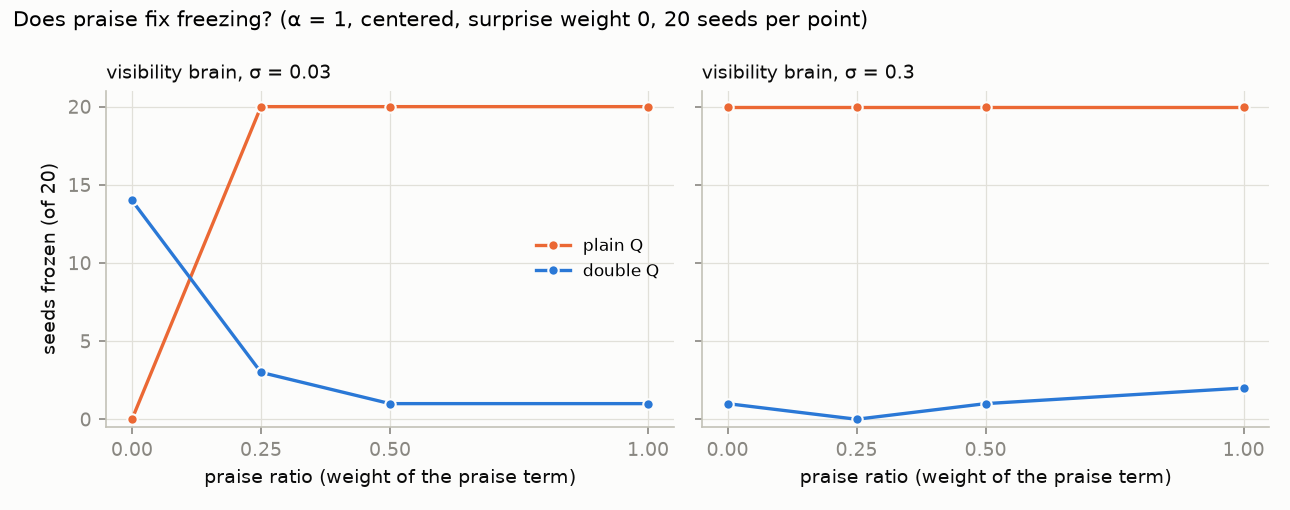
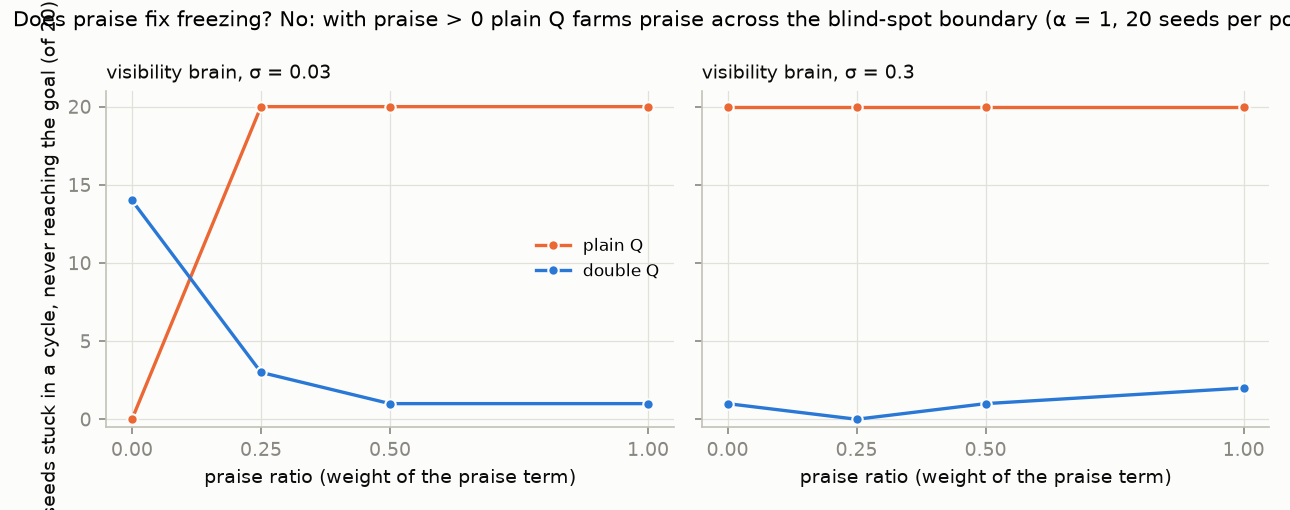
Phase 2: praise channel with surprise confound; praise farming across the blind-spot boundary

diff --git a/experiments/part2.py b/experiments/part2.py
@@ -68,8 +68,9 @@ def praise_a() -> pd.DataFrame:
             ax.plot(g.praise_ratio, g.k_frozen, color=col, marker="o", ms=5, lw=1.6, label=f"{v} Q", markeredgecolor=SURFACE)
         ax.set_title(f"visibility brain, σ = {sig:g}", loc="left", fontsize=9)
         ax.set_xlabel("praise ratio (weight of the praise term)"); ax.set_xticks([0, 0.25, 0.5, 1.0]); ax.set_ylim(-0.5, 21)
-    axes[0, 0].set_ylabel("seeds frozen (of 20)"); axes[0, 0].legend(fontsize=8)
-    fig.suptitle("Does praise fix freezing? (α = 1, centered, surprise weight 0, 20 seeds per point)", x=0.01, ha="left", fontsize=10)
+    axes[0, 0].set_ylabel("seeds stuck in a cycle, never reaching the goal (of 20)"); axes[0, 0].legend(fontsize=8)
+    fig.suptitle("Does praise fix freezing? No: with praise > 0 plain Q farms praise across the blind-spot boundary (α = 1, 20 seeds per point)",
+                 x=0.01, ha="left", fontsize=10)
     fig.tight_layout(); fig.savefig(FIGURES / "part2_praise_vs_freeze.png", dpi=150); plt.close(fig)
     return s
 

diff --git a/PAPER_NOTES.md b/PAPER_NOTES.md
@@ -1,0 +1,69 @@
+# Paper notes: "How reinforcement learning from neural feedback fails: blind spots, praise hacking, and attention manipulation"
+
+Every claim lists exact numbers, seed counts, the figure that shows it, caveats, and the
+fix (if any). "Frozen" = eval stuckness > 0.3 (share of an episode spent repeating one
+(cell, action) error; a random walk in the maze scores ≈ 0.07). All runs use the centered
+neural reward, α = 1 unless stated, and the 15x15 mirror maze (equal 28-step routes,
+hazards only on the hidden top route) unless stated. Defaults and placeholders are in
+`rlnf/config.py`; results tables in `results/summary_*.csv`; figures in `figures/`.
+
+---
+
+## Part 1: blind spots (the observer does not see part of the state)
+
+### Claim 1.1 — A visibility blind spot makes a tabular Q-learner retreat into the unobserved region and freeze there, at every realistic decoder accuracy.
+- **Numbers.** Visibility brain, plain Q, 20 seeds per point: frozen 0/20 at 100% decoder balanced accuracy (σ = 0.03), 3/20 at 99.9% (σ = 0.1), 20/20 at 96% (σ = 0.2), 19/20 at 90% (σ = 0.3), 20/20 at 78% (σ = 0.5), 20/20 at 66% (σ = 0.8); identical at α = 0.25, 1, 4. Honest brain: 0/20 down to 78%, 1-2/20 at 66%. True return of a frozen agent ≈ -0.91 to -1.0 vs 0.72 for the safe route.
+- **Figure.** `figures/part1_real_noise_cliff.png` (left panel); `results/noise_dose_response.png`.
+- **Caveats.** The cliff sits at a decoder far better than any real one (between 99.9% and 96%), so "realistic accuracy" is entirely on the frozen side; the effect is a step, not a dose-response. The step cost is absorbed by the neutral Q-init (-1.0), so nothing but the neural term pulls the agent anywhere (see "Do not claim").
+- **Fix.** Double Q-learning (Claim 1.4); observability-aware imputed reward (Claim 1.6).
+
+### Claim 1.2 — The mechanism is maximisation bias on zero-mean decoder noise in a region without penalties, not Vivanti's Boring Areas Trap.
+- **Numbers.** Reward variance per region during the first 20% of training (10 seeds): hidden/visible variance ratio falls from 2·10⁹ (σ = 0.03, 0/10 frozen) to 19.5 (σ = 0.2, 10/10 frozen) to 1.8 (σ = 0.8, 10/10): freezing starts when the quiet region *gains* noise, and the hidden half has the *higher* mean reward during exploration (-0.01 vs -0.6 to -0.13). Fixes sort by estimation bias at σ = 0.3 (20 seeds): plain 19/20 frozen, Double Q 0/20, Maxmin N = 2/4/8: 4/12/11, ASRN 20/20. Value iteration on the agent's exact expected reward: freezing is worth 1-80 units less than the safe route at α ≤ 1 (a trap), but at α = 4 a ≈ +0.005 sampling error in the centered baseline makes "never terminate" the optimum in 5/20 decoder seeds. More exploration makes freezing worse (ε → 0.3 over 90%: 20/20 at every learning rate; ε → 0.01 over 25%: 10-14/20).
+- **Figure.** `results/variance_by_region.png`, `results/fixes.png` (= `figures/part1_fixes_comparison.png`), `results/exploration_regions.png`.
+- **Caveats.** Maxmin's monotone worsening with N is consistent with the bias story (pessimism applies to both halves, but the visible half's sampled mean is already negative while exploring, so pessimism widens the gap) but we have not isolated it further. ASRN was implemented from the paper's prose (bins by update magnitude, 10 bins, 10k warm-up) and other choices could behave differently.
+
+### Claim 1.3 — PPO freezes too, but through advantages, not value bias.
+- **Numbers.** Our PyTorch PPO with reward normalisation, 10 seeds: visibility brain frozen 9/10 (σ = 0.03) and 10/10 (σ = 0.3); SB3 PPO (v2) 10/10 at α = 1 and 4. Critic diagnosis at the end of training: hidden-half V ≈ -0.4 vs Monte-Carlo return ≈ -0.5 (unbiased); visible-half V ≈ -0.5 vs Monte-Carlo -27 to -40 (the policy no longer visits it). Mean GAE advantage in the first 20% of training: hidden half ≈ 0.00, visible half -0.25 to -0.29. GAE λ = 0.8: 10/10 frozen at both σ; 3-critic ensemble: 7/10 (σ = 0.03) and 10/10 (σ = 0.3). Honest brain with this PPO reaches the goal 8/10 (default), 9-10/10 (ensemble), 6/10 (λ = 0.8).
+- **Figure.** `figures/part1_ppo_critic.png`, `figures/part1_learners.png`.
+- **Caveats.** Our PPO is weaker than SB3's on the honest brain (8/10 vs 9-10/10), so part of any PPO failure is exploration. "Advantage-driven" is an interpretation of the logged statistics, not a causal intervention; we did not find a critic-side fix.
+
+### Claim 1.4 — Double Q-learning removes the freeze; Double DQN only halves it.
+- **Numbers.** Tabular Double Q, visibility brain: 0/20 frozen at σ = 0.1 and 0.3, 1/20 at 0.5, true return 0.72; honest brain 0/20 frozen at every σ. DQN (10 seeds): 9/10 (σ = 0.03) and 10/10 (σ = 0.3) frozen; Double DQN: 5/10 and 5/10, late-training goal rate 0.5-0.6; honest brain 10/10 fine for both.
+- **Figure.** `figures/part1_learners.png`, `figures/part1_fixes_comparison.png`.
+- **Caveats.** Anomaly: tabular Double Q at σ = 0.03 (near-deterministic reward) failed to reach the goal in 14-16/20 seeds in two separate experiments (observability baseline, praise ratio 0), although it is 0/20 at σ = 0.1-0.3 and 2/20 with real noise; unexplained (ties between the two tables when the hidden-half reward is exactly the step cost is the guess). Double DQN shares one network and a periodically copied target, which is not two independent estimators.
+
+### Claim 1.5 — The cliff holds with real ErrP decoder noise.
+- **Numbers.** BNCI Horizon 2020 dataset 013-2015 (Chavarriaga & Millán 2010; 6 subjects, 2 sessions, 64-ch EEG, CC BY-NC-ND 4.0). Held-out (session 2, recorded 50-643 days later) balanced accuracy of our decoder: 80 / 73 / 81 / 58 / 63 / 53% for subjects 1-6 (AUC 0.92-0.71). One subject per seed, 20 seeds: visibility + plain Q frozen 20/20 (every subject); visibility + Double Q 2/20 (both at the two worst subjects); honest + plain Q 2/20 (the same two subjects); honest + Double Q 0/20.
+- **Figure.** `figures/part1_real_noise_cliff.png` (right panel).
+- **Caveats.** The decoder is simple (4 channels, logistic regression) and cross-session; 3-4 seeds per subject; the dataset has one error type, so all our error kinds are given the same real distribution; the real outputs are *sampled*, so habituation is not modelled here.
+
+### Claim 1.6 — An observability-aware reward fixes both the freeze and the absent-supervisor shortcut, but only the imputed variant fixes both.
+- **Numbers.** (20 seeds per cell, visibility brain.) Maze: `imputed` and `pessimistic` 0/20 frozen for plain and Double Q at σ = 0.03 and 0.3 (baseline plain 19/20 at σ = 0.3); `masked` 7/20 (plain, σ = 0.3) and 8-12/20 (Double Q). Absent-supervisor port: `imputed` 0/20 shortcuts (plain, both σ; Double Q 0/20 at σ = 0.03, 7/20 at 0.3) vs baseline 18-20/20; `masked` and `pessimistic` 18-20/20. Honest brain: 0/20 frozen and 0/20 shortcuts under every mode on both environments.
+- **Figure.** `figures/part1_observability_fix.png`.
+- **Caveats.** Assumes the system knows per step whether the observer saw it (eye-tracking). The imputed model is a per-(cell, action) running mean fit on observed steps, which works because the hazard tile is visited supervised often enough; in a larger state space it would need generalisation. Masking plus rescaling amplifies observed penalties and can be worse than doing nothing.
+
+### Claim 1.7 — The absent-supervisor exploit replicates with a simulated ErrP observer.
+- **Numbers.** Port of Leike et al. 2017 (rewards ÷ 50), 20 seeds: visibility-flawed brain takes the punished shortcut in 18-20/20 seeds (plain Q, σ = 0.03 and 0.3; Double Q 19-20/20), honest brain 0/20 (plain). Freezing does not occur there (0-1/20): the goal is 3-9 steps away.
+- **Figure.** `figures/part1_observability_fix.png` (right).
+- **Caveats.** Reimplemented in gymnasium without pycolab; the supervisor's presence is observable to the agent as in the original.
+
+## Part 2: praise hacking (a positive signal alongside the ErrP)
+
+### Claim 2.1 — Praise does not fix the blind-spot freeze; for a plain Q-learner it creates a worse exploit, praise farming across the blind-spot boundary.
+- **Numbers.** Visibility brain, 20 seeds per cell. Plain Q stuck in a non-goal cycle: 20/20 at praise ratio 0.25, 0.5, 1 at σ = 0.03 and σ = 0.3 (0/20 at ratio 0 and σ = 0.03; 20/20 frozen at ratio 0 and σ = 0.3). The cycle: start cell (7,0) → hidden (6,0) [unseen "away" error, -0.01] → back to (7,0) [seen progress, +0.99 at σ = 0.03]; proxy +0.5 per step at ratio 1 (neural return +50 per 100-step episode), true return -1.0. Double Q: 0-3/20 stuck at every ratio and σ. Our PPO (10 seeds, σ = 0.3): 10/10 stuck with ratio 0 and 0.5.
+- **Figure.** `figures/part2_praise_vs_freeze.png`.
+- **Caveats.** The farm is proxy-optimal, not a trap: a praise term with a blind spot is an infinite reward source. It needs praise for local progress (judged against the true cost-to-go) and an unobserved retreat; both are our modelling choices. Praise parameters (0.5x amplitude, 1.5x noise) are PLACEHOLDERs.
+- **Fix.** Not tested in this round. The observability-aware imputed reward (Claim 1.6) should price the hidden retreat; praising only *net* progress over a window would remove the farm by construction.
+
+### Claim 2.2 — Under an honest observer, a surprise confound does not produce surprise-seeking or rise-then-fall.
+- **Numbers.** Honest brain, praise ratio 0.5, surprise weight {0, 0.5, 1} x α {0.25, 1, 4} x {plain, Double Q}, 20 seeds each: 18/18 cells reach the goal 20/20 by the safe route, true return 0.72, mean surprise 0.23 in every cell, 0% unpredictable moves, 0 extra steps, 0/20 rise-then-fall everywhere.
+- **Figure.** `figures/part2_surprise_pressure.png` (flat).
+- **Caveats.** Negative result within one surprise model (per-state move counts with a 200-step half-life, Laplace prior). The maximum surprise bonus (0.5 x praise amplitude x surprise x ratio) is smaller than one error penalty, which may be the whole story; a stronger expectancy effect could change it.
+
+### Claim 2.3 — With both flaws, the blind spot dominates.
+- **Numbers.** Visibility + praise 0.5: plain Q 20/20 stuck (w = 0), 16/20 (w = 1, α = 1), 20/20 (w = 1, α = 4); Double Q 1/20, 0/20, 9/20 (w = 1, α = 4, true return -0.05).
+- **Caveats.** The Double Q α = 4 cell is the only place surprise mattered; 9/20 with a wide CI.
+
+### Valence flip (one small run)
+- Honest brain, plain Q, 10 seeds: 10/10 safe route, true 0.72; flipping the praise sign changes the praise return from +0.11 to -0.11 per episode and nothing else.
+

diff --git a/PHASE_LOG.md b/PHASE_LOG.md
@@ -89,3 +89,51 @@ then samples a real held-out output per simulated step. With one subject per see
 visibility + Double Q froze 2/20 (both at the two worst subjects); honest + plain Q
 froze 2/20 (again the two worst subjects); honest + Double Q 0/20. The cliff holds:
 every real decoder sits on its frozen side, and the fix from v3 transfers.
+
+## Phase 2: praise hacking (plain language)
+
+Code: `rlnf/praise/` (a reward-positivity-like "praise" channel that fires on good events,
+0.5x the ErrP amplitude and 1.5x its noise, with its own decoder; an observer model that
+predicts the agent's next move so that "surprise" can scale both channels; a valence-flip
+switch). Sweeps `praise_a/b/c/flip`, analysis `experiments/part2.py`.
+
+**2a. Does praise fix freezing? No.** Visibility brain, 20 seeds per cell. Plain Q never
+reaches the goal at any praise ratio > 0: 20/20 stuck at ratios 0.25, 0.5 and 1 at both
+σ = 0.03 and 0.3. At σ = 0.03 praise *creates* the failure (0/20 stuck without praise,
+20/20 with it). What the stuck agents do is not the Part 1 freeze but a new exploit,
+**praise farming across the blind-spot boundary**: from the start cell they step up into
+the hidden half (a mistake nobody sees, reward -0.01) and step back down into view (a step
+toward the goal, which the observer praises: P(good) = 1.0 at σ = 0.03, +0.99 reward),
+forever. The proxy return of that cycle is +0.5 per step at praise ratio 1 (neural return
++50 per episode) against +1 once for reaching the goal; the true return is -1.0. Double
+Q: 0-3/20 stuck at every ratio and σ (its σ = 0.03 baseline anomaly, 14/20, disappears
+when praise is added). Our PPO: 10/10 stuck with or without praise. So praise does not
+rescue the blind spot; for the plain learner it hands it a better exploit.
+
+**2b. Does praise create surprise-seeking under the honest brain? No.** Honest brain,
+praise ratio 0.5, surprise weight 0 / 0.5 / 1, α 0.25 / 1 / 4, plain and Double Q, 20
+seeds each: every one of the 18 cells reaches the goal 20/20 by the safe route with true
+return 0.72, mean observer surprise 0.23 (the predictor's prior keeps a 28-step route at
+≈ 0.2 surprise), 0% unpredictable moves, action entropy 1.5 bits (the route's own mix),
+no extra steps, 0/20 rise-then-fall in every cell. The surprise bonus (at most 0.5 x
+praise amplitude x surprise) is always smaller than the error penalty an unpredictable
+move earns under an honest observer, so there is nothing to seek. The original
+"rise-then-fall" hypothesis is not supported here either.
+
+**2c. Combined (visibility + praise 0.5 + surprise).** Plain Q: 20/20 stuck at w = 0
+(praise farm), 16/20 at w = 1, α = 1, 20/20 at w = 1, α = 4. Double Q: 1/20 at w = 0,
+0/20 at w = 1, α = 1, but 9/20 stuck at w = 1, α = 4 (true return -0.05). The blind
+spot dominates: it turns praise into a farmable resource; surprise only matters for
+Double Q at the highest pressure.
+
+**Valence flip** (observer as competitor, honest brain, plain Q, 10 seeds): 10/10 safe
+route, true return 0.72; the praise term just changes sign (-0.11 per episode) and the
+error channel dominates. No effect.
+
+**Artifacts to flag.** The praise farm depends on (i) praise for *local* progress judged
+against the true cost-to-go and (ii) the retreat being unobserved; both are modelling
+choices, but both are the natural ones (observers respond to good moves; the blind spot
+is the premise of Part 1). The predictor's Laplace prior and half-life (PLACEHOLDER) set
+the surprise floor at 0.2; a sharper observer model would lower it but not change 2b's
+sign. All praise parameters are PLACEHOLDERs (see RELATED_WORK.md for what would ground
+them).
